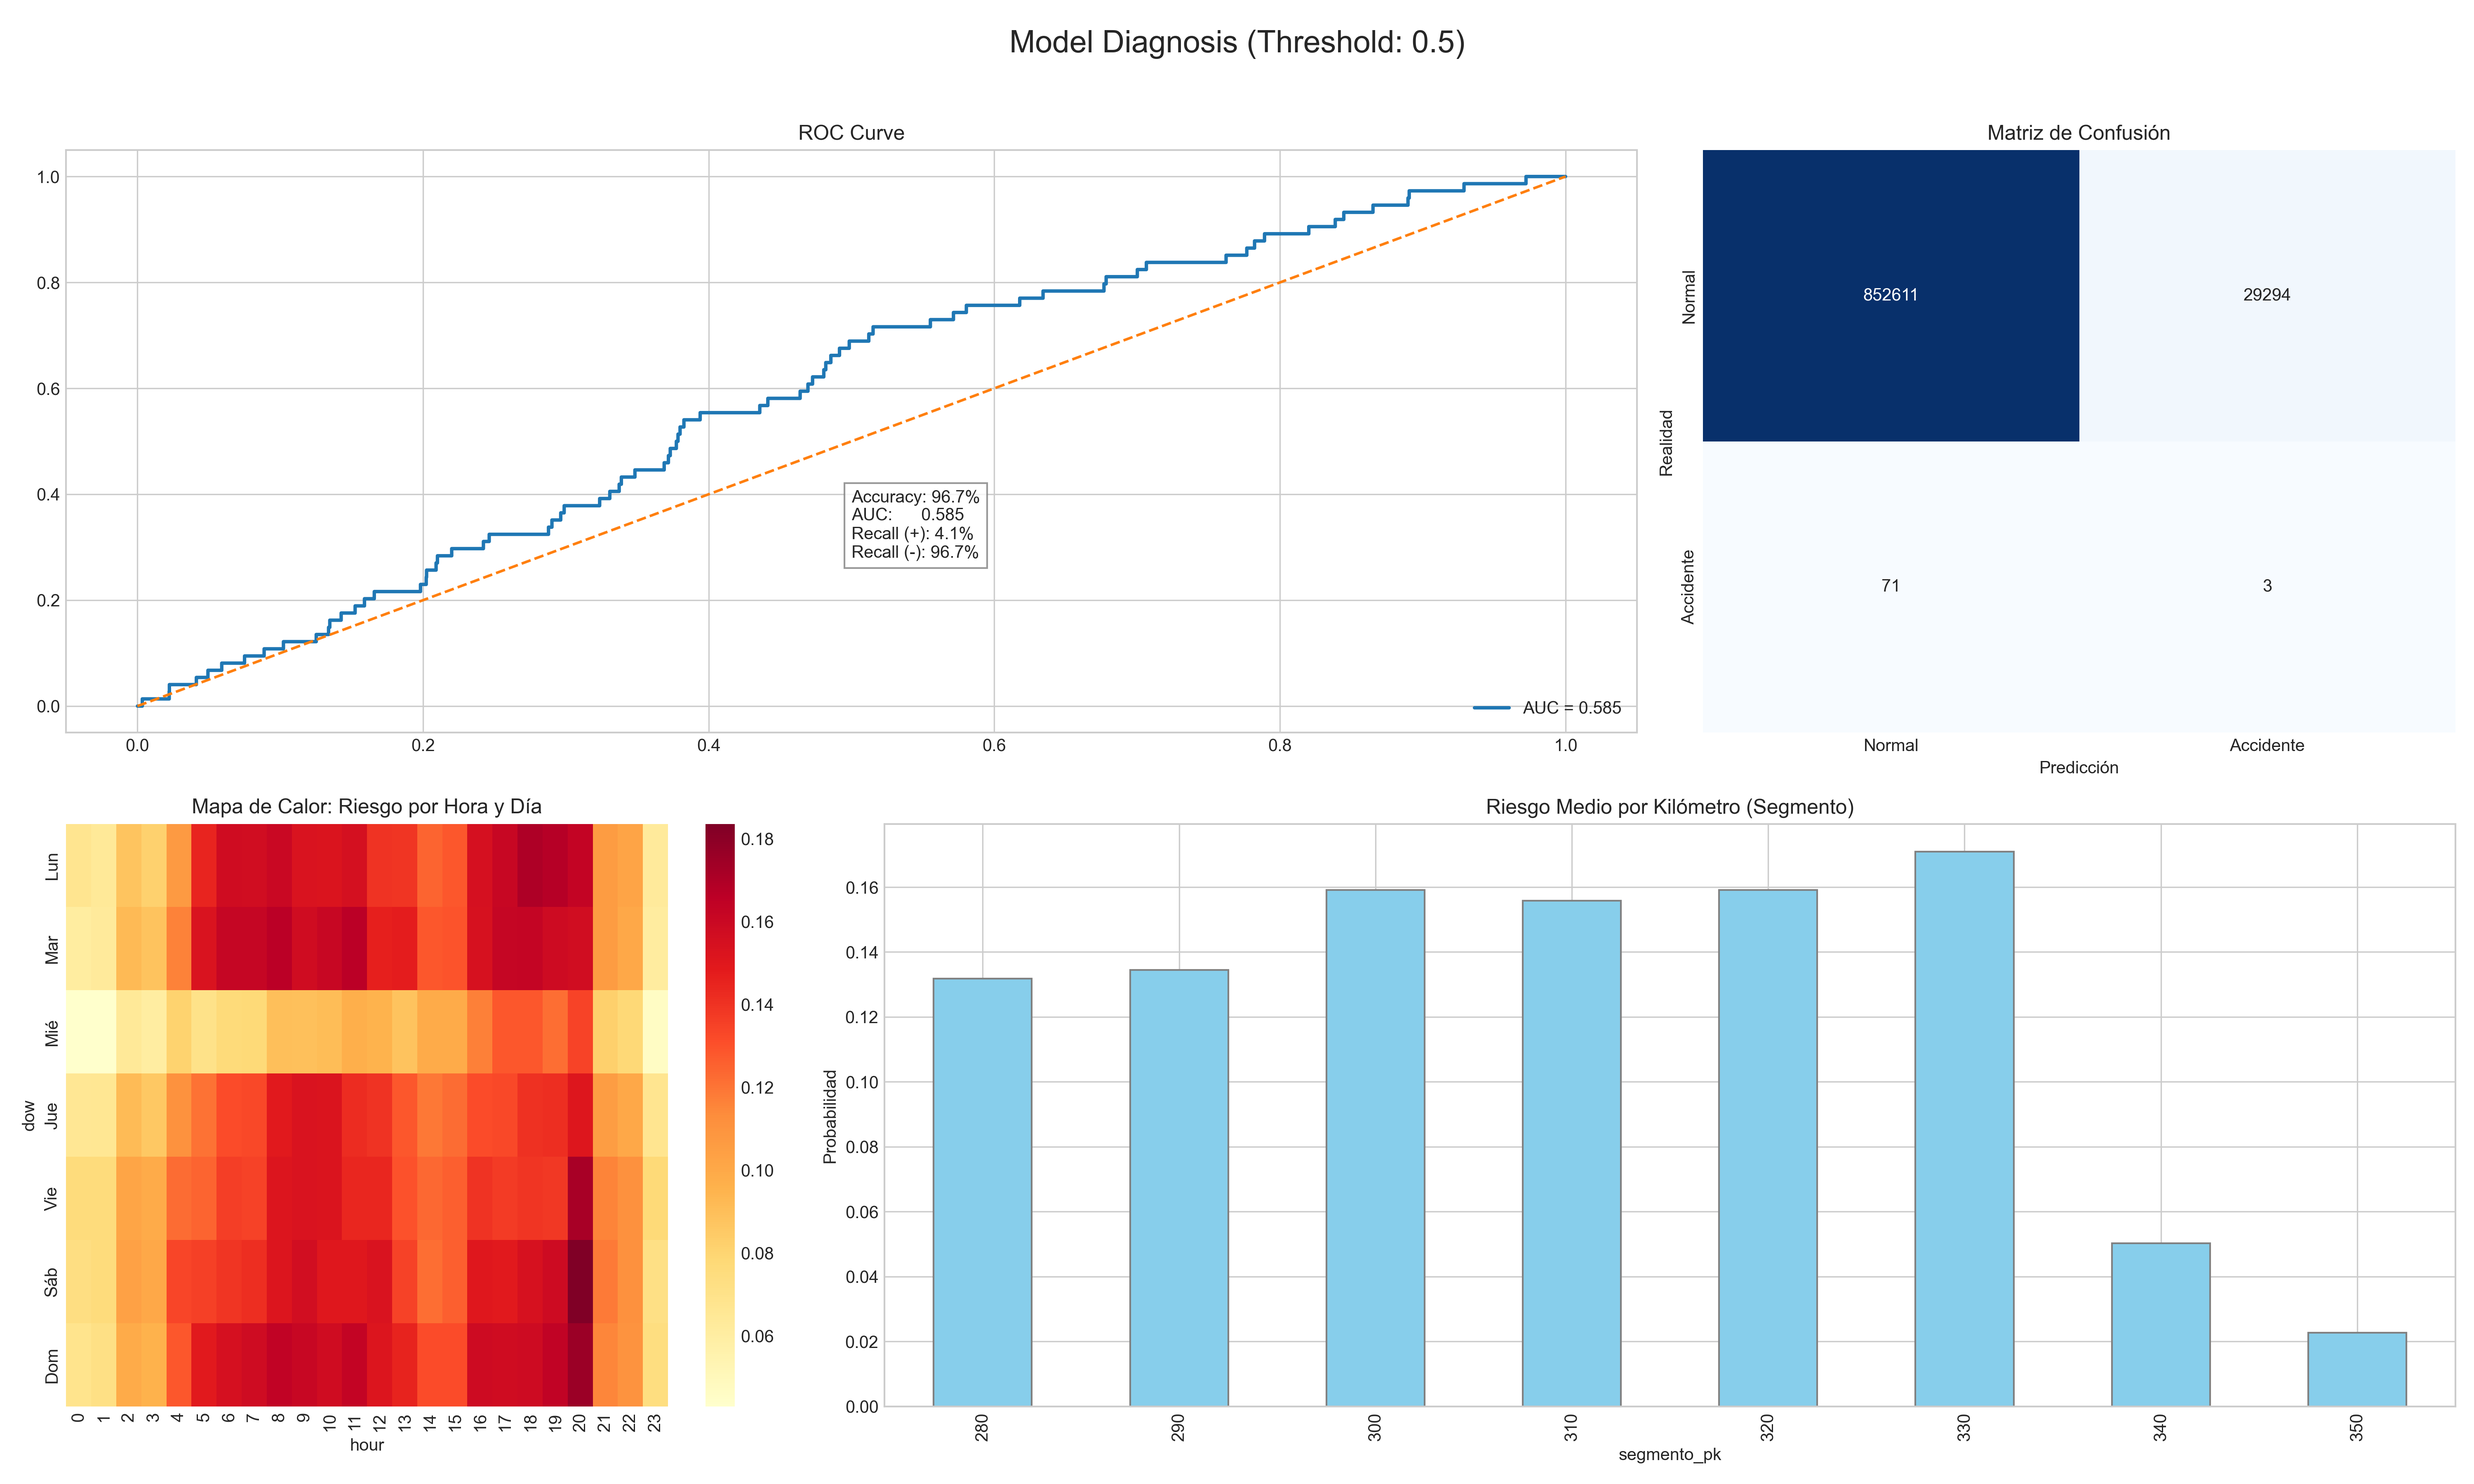
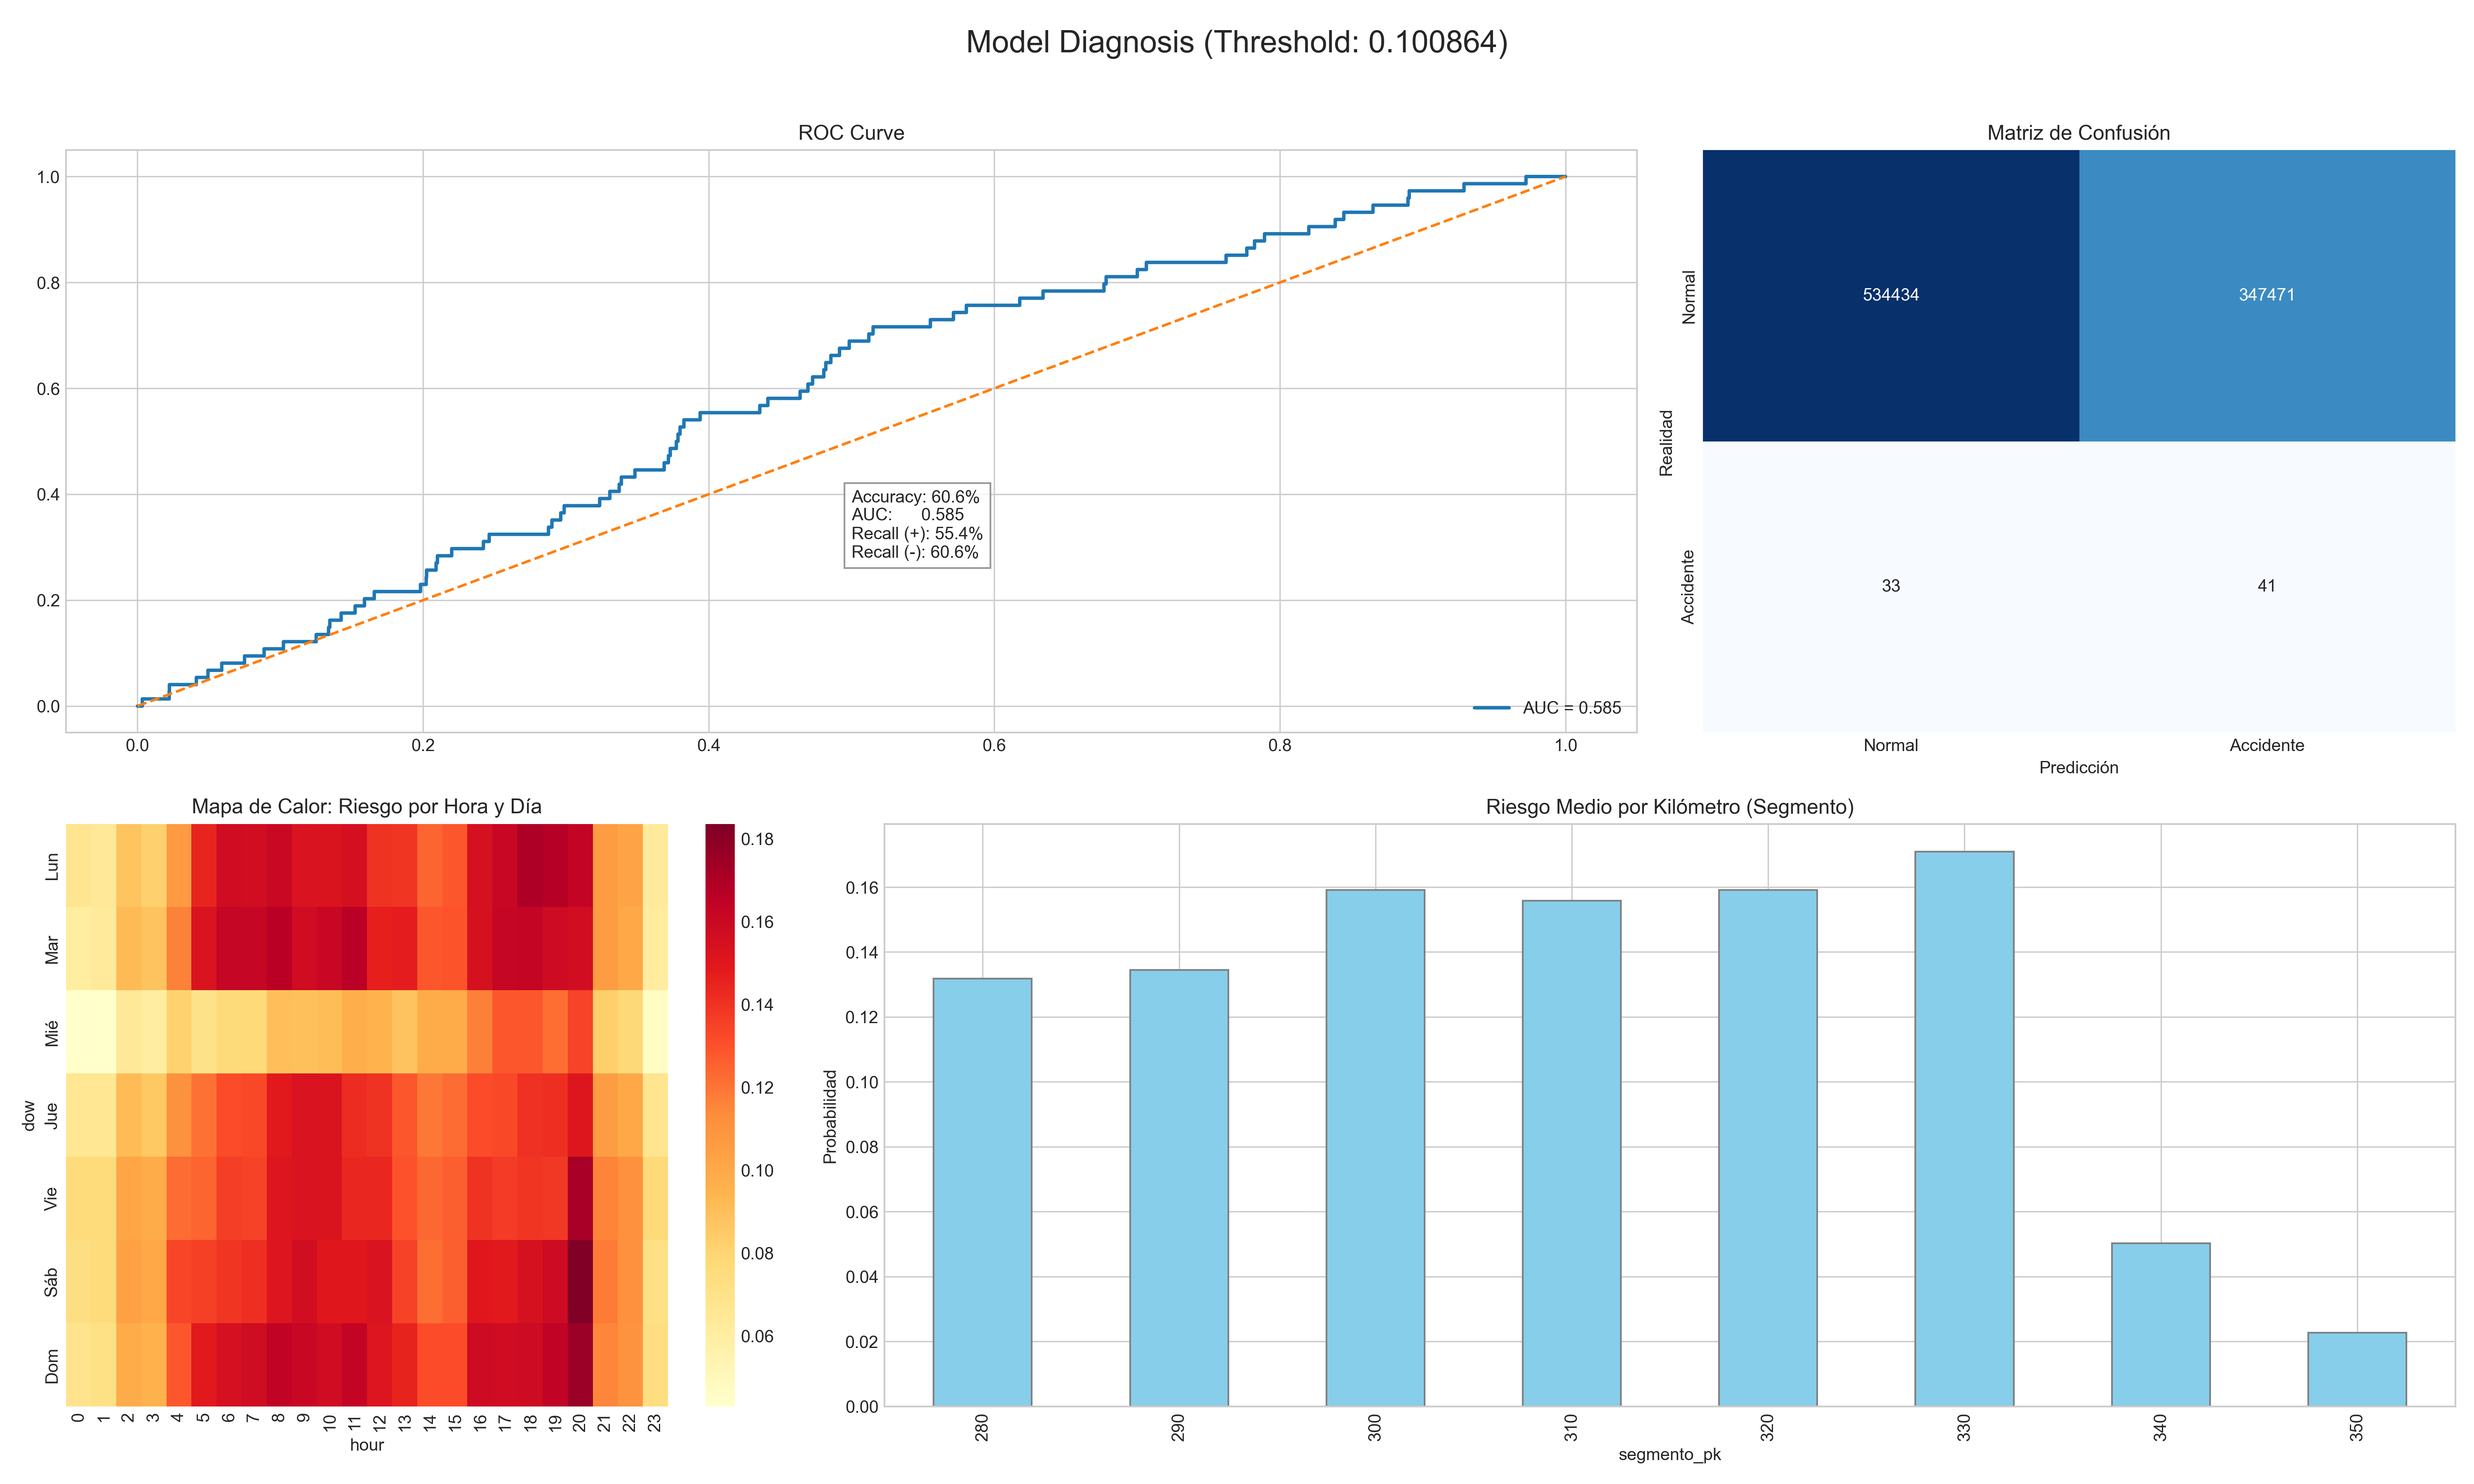
linea temporal actualizada app

Changed region(s): [[0.8415, 0.0933, 0.9973, 0.3111], [0.4052, 0.0, 0.5922, 0.0311], [0.374, 0.3422, 0.4052, 0.3733]]

diff --git a/app/app_demo.py b/app/app_demo.py
@@ -439,11 +439,12 @@ if model is not None:
                 if len(p_future) > 0:
                     avg_risk = np.mean(p_future) * 100
                     future_risks.append(avg_risk)
-                    future_hours.append(f"{f_hour}:00")
+                    future_hours.append(future_dt)
             
             # Crear gráfico
             if future_risks:
                 chart_df = pd.DataFrame({'Hora': future_hours, 'Risc Mig (%)': future_risks})
+                chart_df = chart_df.sort_values('Hora')
                 st.line_chart(chart_df, x='Hora', y='Risc Mig (%)', color="#ff4b4b")
                 
                 # Insight automático

diff --git a/train_xgboost.py b/train_xgboost.py
@@ -64,7 +64,7 @@ print(f" ROC AUC Final Score: {auc:.4f}")
 precisions, recalls, thresholds = precision_recall_curve(y_test, probs)
 
 #* BUSCAR EL THRESHOLD QUE MAXIMICE F1 o RECALL
-target_recall = 0.55
+target_recall = 0.50
 # Search the threshold that gives at least target_recall (60%)
 idx = np.argmax(recalls <= target_recall) 
 best_threshold = thresholds[idx] if idx < len(thresholds) else 0.5

diff --git a/validation.py b/validation.py
@@ -32,7 +32,7 @@ print(f"Validating with {len(X_test)} samples ({time_test.min()} to {time_test.m
 print("Generating predictions...")
 probs = model.predict_proba(X_test)[:, 1] # Probabilidad de accidente
 
-THRESHOLD = 0.5
+THRESHOLD = 0.104896 #0.153225 # 0.5
 y_pred = (probs > THRESHOLD).astype(int)
 # Guardar probabilidades en el DataFrame para análisis
 df_test_full['probabilidad'] = probs
